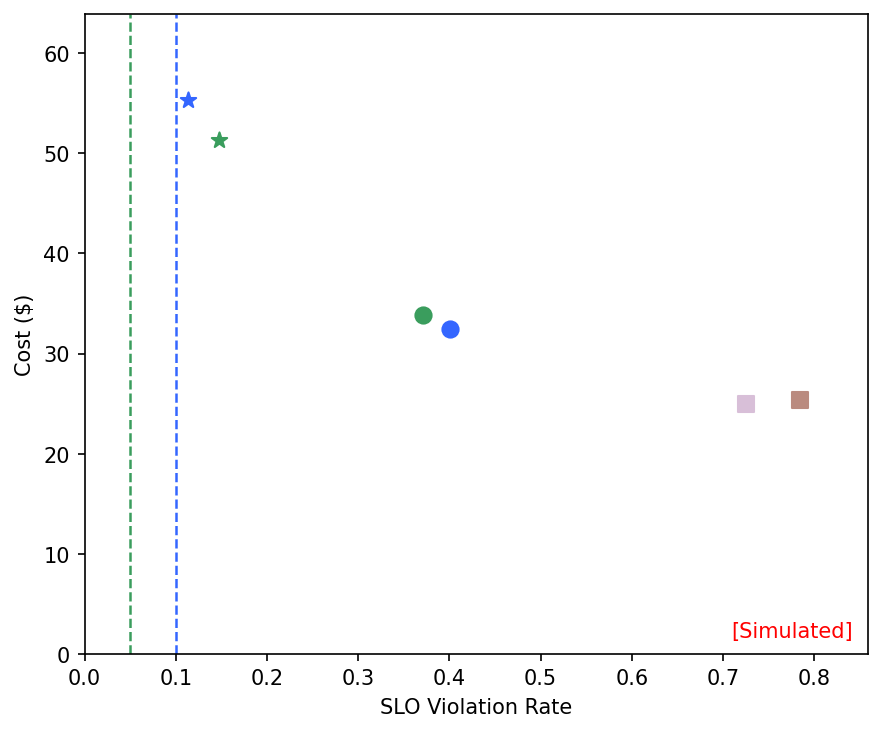
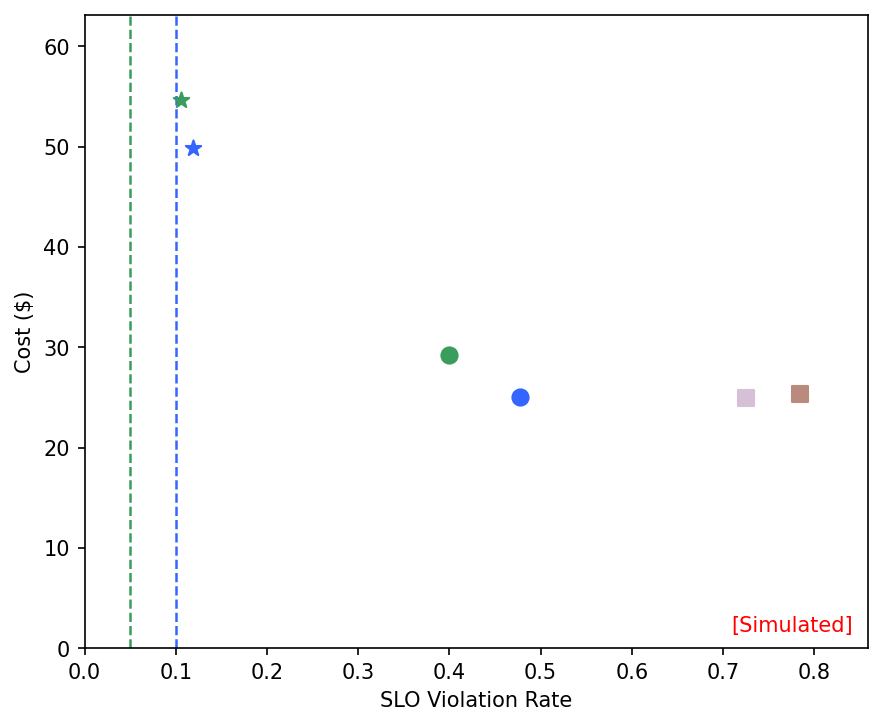
Recalculated main eval results

diff --git a/data/plots/main_eval/main_eval.tex b/data/plots/main_eval/main_eval.tex
@@ -11,11 +11,11 @@
 $\lambda$ & $\kappa$ & C & \multicolumn{2}{c|}{RoundRobin16+16} & \multicolumn{2}{c|}{Single32} & \multicolumn{2}{c|}{Past30, τ=0.05} & \multicolumn{2}{c|}{Oracle, τ=0.05} & \multicolumn{2}{c|}{Past30, τ=0.10} & \multicolumn{2}{c}{Oracle, τ=0.10} \\
  &  &  & VR & Cost & VR & Cost & VR & Cost & VR & Cost & VR & Cost & VR & Cost \\
 \hline
-κ=8 &  &  & 0.3312 & \$25.37 & 0.3132 & \$24.98 & 0.1114 & \$15.30 & \textbf{0.0453} & \$28.54 & 0.1034 & \$16.79 & \underline{0.0711} & \$24.94 \\
-κ=4 &  &  & 0.5553 & \$25.37 & 0.4820 & \$24.98 & 0.1882 & \$29.82 & \textbf{0.0568} & \$42.21 & 0.2536 & \$20.06 & \underline{0.0991} & \$36.11 \\
-κ=2 &  &  & 0.7845 & \$25.37 & 0.7256 & \$24.98 & 0.3714 & \$33.83 & \underline{0.1473} & \$51.35 & 0.4001 & \$32.45 & \textbf{0.1135} & \$55.32 \\
+κ=8 &  &  & 0.3312 & \$25.37 & 0.3132 & \$24.98 & 0.0934 & \$21.47 & \textbf{0.0417} & \$16.05 & 0.1228 & \$20.73 & \underline{0.0654} & \$18.00 \\
+κ=4 &  &  & 0.5553 & \$25.37 & 0.4820 & \$24.98 & 0.3312 & \$15.30 & \textbf{0.0424} & \$40.75 & 0.3570 & \$12.82 & \underline{0.0927} & \$34.54 \\
+κ=2 &  &  & 0.7845 & \$25.37 & 0.7256 & \$24.98 & 0.3994 & \$29.19 & \textbf{0.1056} & \$54.70 & 0.4777 & \$25.02 & \underline{0.1193} & \$49.84 \\
 \hline
-\multicolumn{3}{c||}{\textit{Mean~$\Delta$}} & --- & --- & -8.7\% & -1.5\% & -61.7\% & +3.7\% & \textbf{-85.8\%} & +60.4\% & -57.4\% & -8.9\% & \underline{-82.1\%} & +52.9\% \\
+\multicolumn{3}{c||}{\textit{Mean~$\Delta$}} & --- & --- & -8.7\% & -1.5\% & -53.7\% & -13.3\% & \textbf{-88.8\%} & +46.5\% & -45.9\% & -23.0\% & \underline{-82.8\%} & +34.5\% \\
 \bottomrule
 \end{tabular}}
 \caption{Mean improvement is relative to RoundRobin16+16.}
